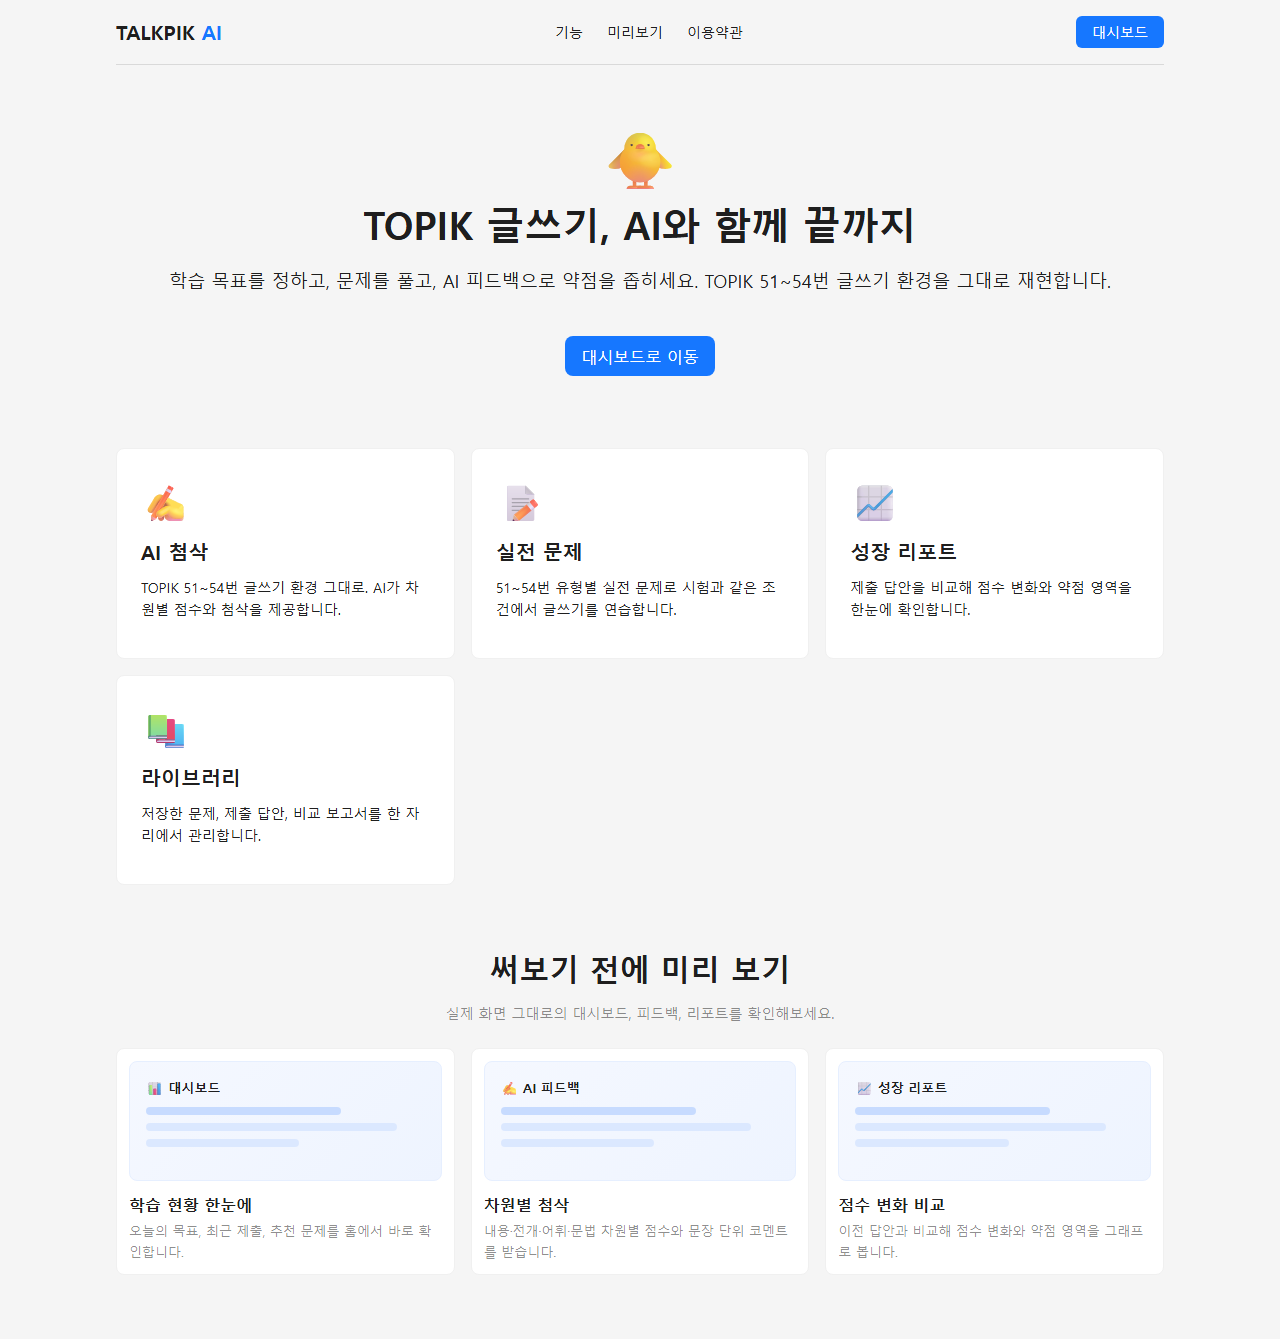
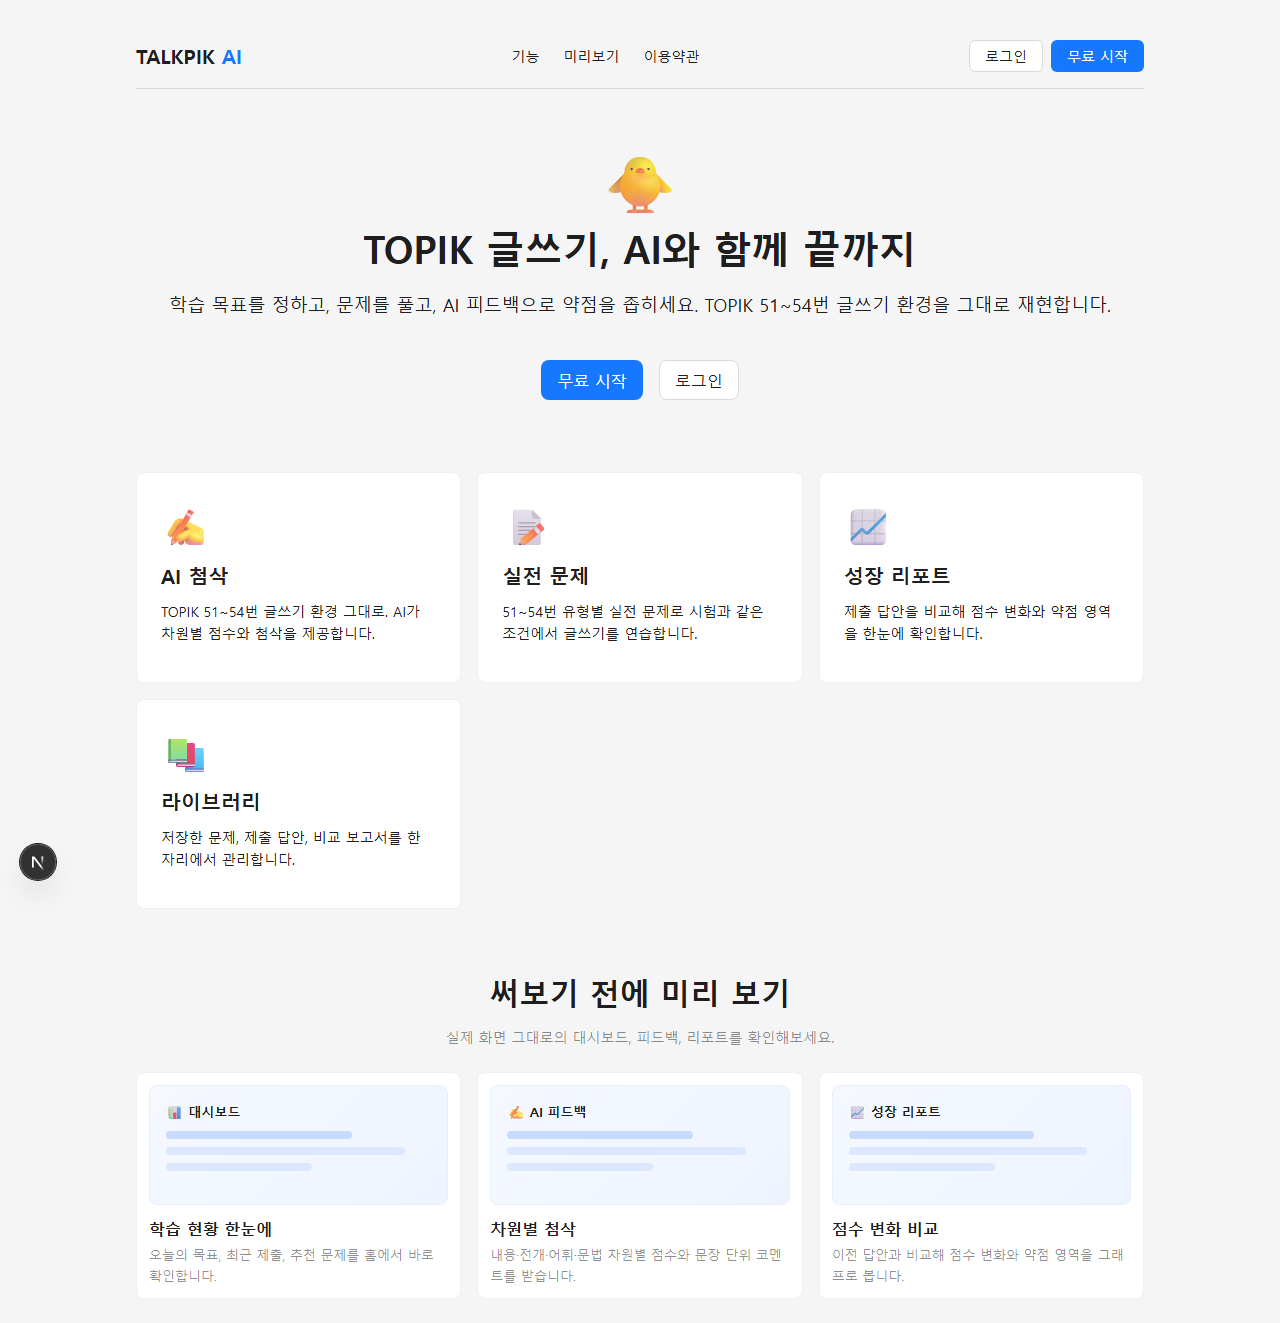
docs(ui-redesign): public/legal M1 evidence + GPT-5.5 review + 9 screenshots (final cluster)
M1 / + /terms + /privacy @360/768/1280 anonymous, all ok (0 console/runtime/antd-deprecation, headSha 3faa778). GPT-5.5: 0 P1 / 3 P2 (recorded as landing-polish follow-ups). Full suite 707 pass. ALL user-facing clusters now complete.

diff --git a/docs/ai-workflow/runs/2026/06/05/20260605-0950-ui-redesign-cluster-public-legal.md b/docs/ai-workflow/runs/2026/06/05/20260605-0950-ui-redesign-cluster-public-legal.md
@@ -1,0 +1,60 @@
+# Context Ledger — UI Redesign Cluster (P) public / legal (FINAL)
+
+## Run Metadata
+
+- Run id: 20260605-0950-ui-redesign-cluster-public-legal
+- Created: 2026-06-05 09:50 (+09:00) · Owner: Claude Code (Opus 4.8, 1M ctx) — coordinator
+- Implementation: isolated sub-agent. Human/visual review: delegated to **GPT-5.5 (codex)** with screenshots. Decisions delegated to GPT-5.5.
+- Branch: `docs/auth-overview-consolidated-reference`
+- Status: **public/legal verified** — M1 3 routes @360/768/1280 all ok (anonymous; 0 console/runtime/overlay/antd-deprecation) + static gates + full suite GREEN + GPT-5.5 review (0 P1 / 3 P2 recorded). **This is the LAST cluster — all user-facing clusters now done.**
+
+## Task
+
+- Apply the validated design system to the **public/legal** screens: X-01 `/` (landing), X-13 `/terms`, X-14 `/privacy`. Visual/structural ONLY — all legal copy unchanged.
+- Out of scope: admin (frozen); theme tokens; no new DB schema. antd deprecations already Codex-swept.
+
+## Docs Consulted
+
+- `src/app/login/page.tsx` (public-page reference pattern: PublicShell + PageContainer + AppCard). `DESIGN.md`. `docs/ui-redesign/PLAN.md`.
+- `src/components/shared/{PublicShell,PageContainer,AppCard,PageHeader}.tsx`, `src/theme/spacing.ts`, `src/styles/global.css`.
+- Wireframe specs X-01/X-13/X-14. `scripts/{dev-route-smoke,ai-workflow-check}.mjs`. `CLAUDE.md`, `docs/ai-development-workflow.md`.
+- Memory: project-ui-redesign-pilot-plan, project-dev-smoke-127-cross-origin-no-hydration, feedback-concurrent-agent-worktree.
+- Audience: **user** (public, pre-auth). Doc conflicts: none. Untouched relevant: `docs/ant-design/08-theme-architecture.md`.
+
+## Active Files (commit `3faa778`, 6 files)
+
+- Pages: `app/page.tsx` (landing), `app/terms/page.tsx`, `app/privacy/page.tsx` — bare `<main>` wrappers → `PublicShell` + `PageContainer` (the public `<main>` landmark). Landing = `default`(1040), hero kept full-bleed. Legal = `narrow`(480) + AppCard. Existing h1s preserved (hero `Title level=1`, legal headings) — no double-h1.
+- Components: `landing/FeatureCard` (Card→AppCard), `landing/ProductPreview` (Card→AppCard ×2), `legal/TermsContent` (Card→AppCard, dropped redundant inline maxWidth/margin now owned by PageContainer).
+- Card→AppCard ×4; Modal→AppModal 0. 1 inline-number escape (privacy scope-note marginTop 12, preserved value). NOT touched: admin, theme tokens, legal copy.
+
+## Verification State
+
+- Coordinator re-ran (A0): `ai-workflow-check --check-inline-styles --check-antd-deprecations` → PASS + M4 + M6 (exit 0). `pnpm typecheck` → 0. `pnpm lint` → 0 errors (24 pre-existing warnings; 0 in scope files). `pnpm vitest run` landing+legal → 6 pass. `pnpm test` (full) → **707 passed | 3 skipped (99 files)**.
+- **M1 dev-route-smoke** (real dev :3000, hydrating; **ANONYMOUS** — `--auth __none__`, since the landing may redirect authed users), headSha `3faa778` == HEAD, `/` + `/terms` + `/privacy` × @360/768/1280 = 9 visits: **all ok=true, reasons=[], overlay="", pageErrors=[], no redirect (final=/route)**; real console errors 0, **antd deprecation 0**, status 200. `--check-smoke` → M3 PASS. admin diff empty.
+- **Coordinator self visual inspection**: `/` @1280 = LandingHeader (logo + nav + 로그인/무료 시작) + hero (🐤 + "TOPIK 글쓰기, AI와 함께 끝까지" h1 + 무료 시작 primary) + 4 feature AppCards (AI 첨삭/실전 문제/성장 리포트/라이브러리) + "미리 보기" ProductPreview AppCards. `/terms` @1280 = centered AppCard (narrow) with the placeholder 이용약관 copy — readable Korean line length for the current short content. Flat white surfaces, no card-in-card, no horizontal scroll. @360 stacks cleanly.
+- **Cross-model review: COMPLETED via GPT-5.5 (codex), 4 screenshots** (`-i root-{360,1280} terms-1280 privacy-1280`). Verdict: **MINOR ISSUES, 0 P1 / 3 P2.**
+  - On-spec (GPT-5.5): landmark correct (PageContainer = single `<main>`, PublicShell adds none, one h1/page); AppCard usage on-spec, no card-in-card; preview cards calm; no loud color/overflow/shadow/horizontal-scroll at 1280/360.
+  - [P2] #1 — landing 4 feature cards render `3 + 1` (auto-fit grid leaves a gap). **RECORDED**: pre-existing grid layout; changing to 4-up/2x2 alters the wireframe-specified structure → landing-polish follow-up.
+  - [P2] #2 — header `무료 시작` and hero `무료 시작` both render as primary in the first viewport (two primary CTAs for one action). **RECORDED**: pre-existing; the fix (header secondary on landing only) adds landing-specific conditional logic + touches LandingHeader (outside this cluster's edits) → landing-polish follow-up.
+  - [P2] #3 — legal `narrow`(480) is tight for real legal prose (original pages were ~720-760). **RECORDED**: current copy is short placeholder + reads fine at 480; PageContainer has no ~720 size (narrow 480 / default 1040); widen to ~720 when real legal copy lands → follow-up.
+  - (Korean copy not evaluated — unchanged + image-based judgment mojibake-immune.)
+- UX/UI Consistency Pass: passed
+  - Tokens: no new inline magic numbers (M4 PASS); 1 documented `// ai-check: allow-inline-number` (privacy scope-note 12, value preserved).
+  - Components: bare antd `Card` → `AppCard` ×4; public pages → `PublicShell` + `PageContainer`; existing h1s preserved. No Modal. No new antd deprecations (M6 PASS).
+  - A11y: 3 bare `<main>` replaced by `PageContainer` (single `<main>` per public page); single h1 per page; no double-landmark.
+  - Responsive: M1 @360/768/1280 all ok=true; landing/legal stack cleanly with no horizontal scroll.
+- QA Gate: passed — real dev app M1 (anonymous) on 3 public routes @360/768/1280 (0 console/runtime/overlay/antd-deprecation); landing+legal unit + 707 full-suite green; admin diff empty; GPT-5.5 0 P1.
+- **Deferred (honest): clean `pnpm build`** — dev reused; #130 risk ≈ 0 (public pages server components; AppCard/PublicShell/PageContainer server-safe; pilot proved the public pattern). Run when dev free.
+
+## Ledger/File-State Consistency
+
+- Commit this run: `3faa778` (public/legal UI, 6 files). Evidence commit (this ledger + smoke-result.json + 9 screenshots) follows.
+- smoke-result.json headSha `3faa778` == HEAD. Concurrent-session artifacts present + left untouched: `.smoke-skip`, `harness-removal-plan.html`, `…/20260605-0940-harness-removal-plan-review.md`.
+- Working tree after evidence commit = clean (aside from the concurrent artifacts).
+
+## Risks And Follow-Up
+
+- **Landing-polish pass (3 recommended P2s):** (1) feature grid 3+1 → 4-up or 2x2; (2) header vs hero dual primary CTA → header secondary on landing; (3) legal width 480 → ~720 for real legal prose. All deliberate-decision items (touch pre-existing layout / LandingHeader / PageContainer sizing).
+- Clean prod build (the one un-run §Goal step) — run when dev free.
+- **ALL user-facing clusters now done** (pilot + C1 auth → C2 practice → C3 writing → C4 feedback/reports → C5 library → C6 growth → C7 settings/profile → C8 paywall/subscription → public/legal). Remaining program-level items: human eyeball of dark mode; clean prod build; M1/M3 CI wiring; the cross-cutting smoke-harness `allowedDevOrigins` fix (done) is the key integrity upgrade this session.
+- Multi-agent worktree: a concurrent session is drafting a "harness-removal plan" — heads-up for the owner; our M1 smoke harness is what just caught the real `/library` loop, so removing it would lose that signal.
